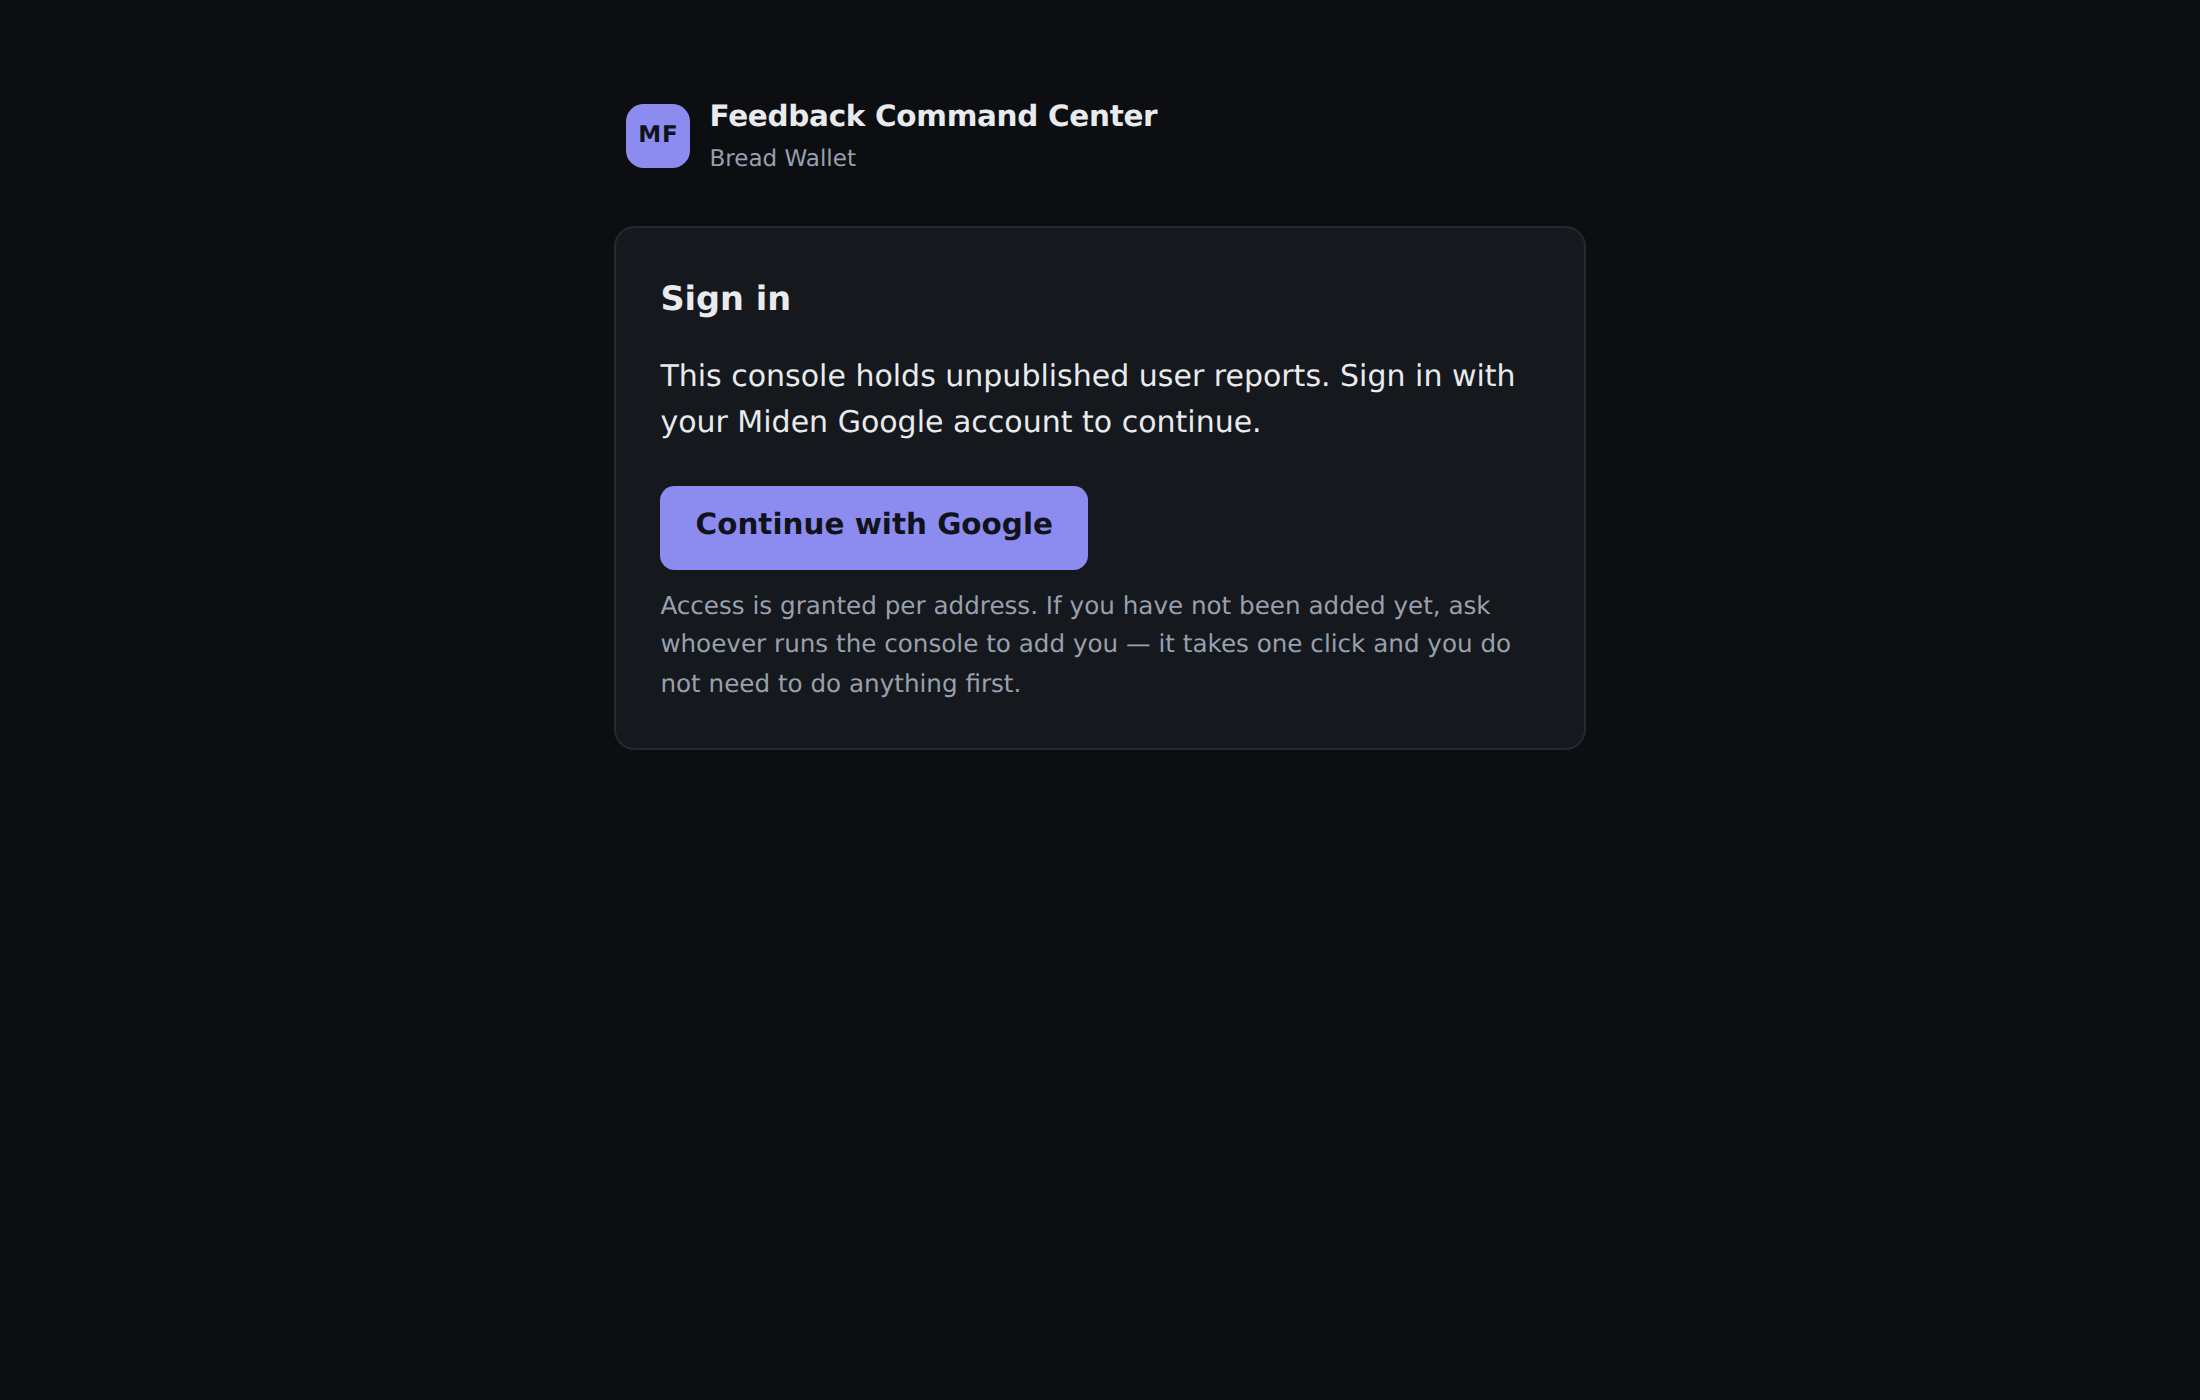
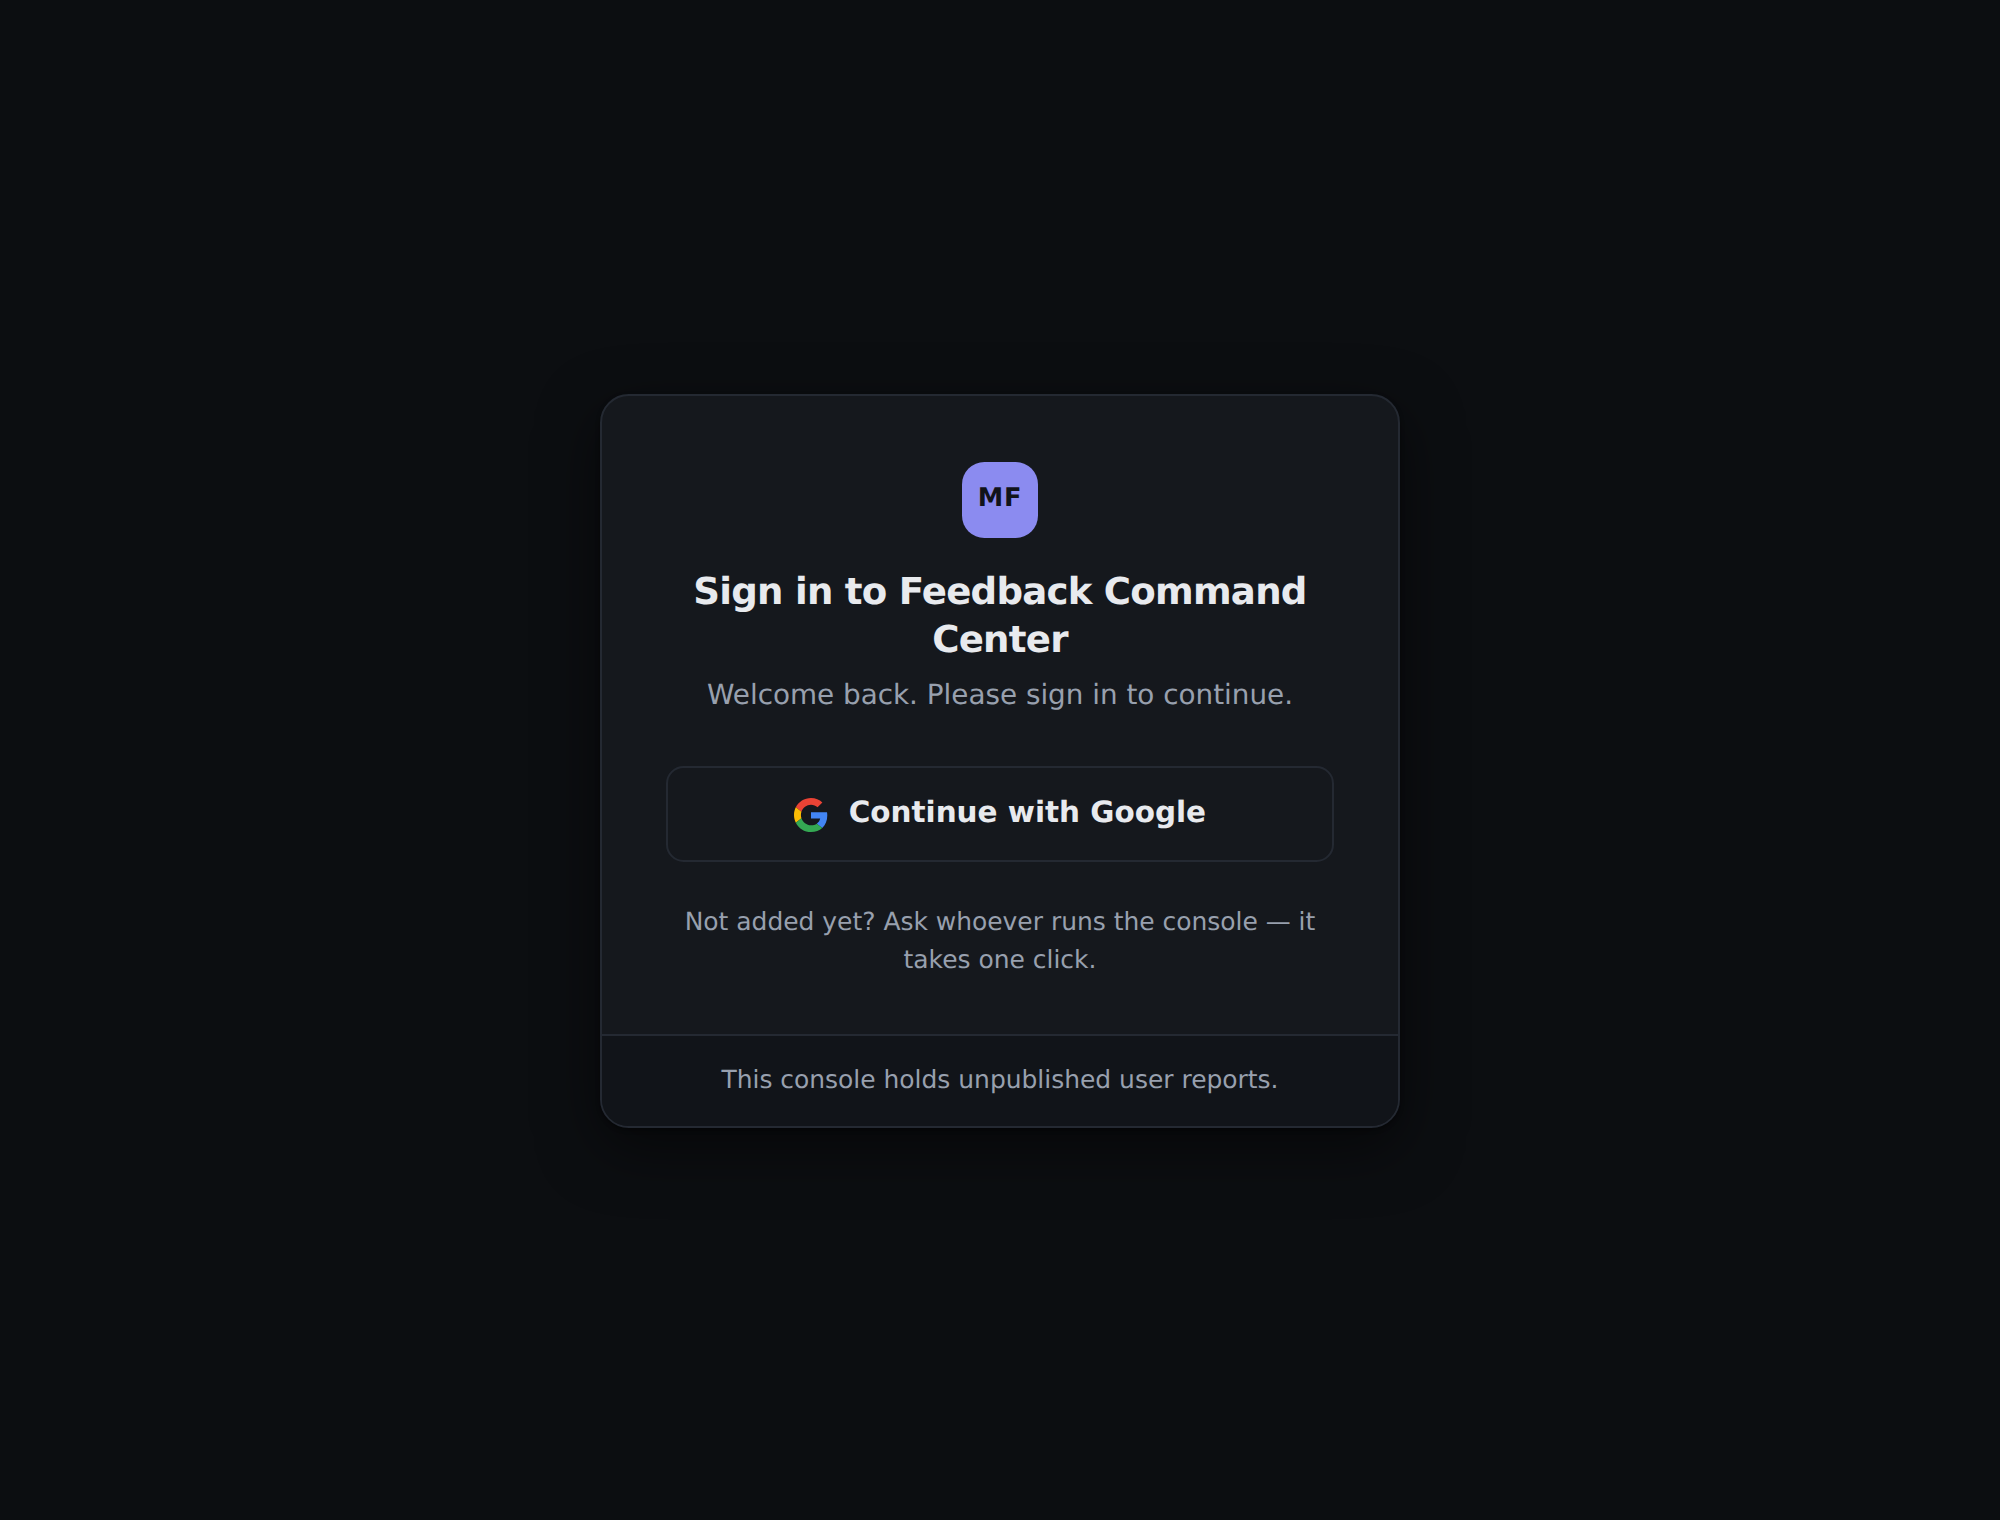
Make the sign-in page look like a sign-in page
The first version was a bespoke layout: a heading, a paragraph and a link, in
the console's own page shell. It worked and it looked like nothing anyone has
seen before, which on a login screen is a problem in itself -- a page nobody
recognises reads as untrustworthy whatever it does underneath. The familiar
shape IS part of the security story.

Rebuilt to the pattern every hosted auth screen uses: a centred card on a plain
ground, the app mark, the app name in the heading, one line of context, then a
full-width provider button carrying the REAL Google mark, a short note, and a
footer strip.

The mark is INLINE SVG, not an <img>. The CSP is `img-src 'self'`, so a logo
fetched from Google's CDN would simply not render -- and loosening the CSP to
let a picture load would be a poor trade on the one page whose job is keeping
people out. Inline markup is part of the document and needs no exception.

authPage() is separate from page() rather than a variant of it, because a
signed-out visitor must not be shown the navigation of a console they cannot
open: a rail listing queues, with counts of reports they have no access to, is
both a tease and a small leak.

Adding GitHub later is one more entry in the button list. Nothing else on the
page changes.

Claude-Session: https://claude.ai/code/session_0155C1MwMTVWLeqCxGqiyrTB

diff --git a/src/lib/admin-chrome.ts b/src/lib/admin-chrome.ts
@@ -347,6 +347,55 @@ const STYLE = `<style>
     after something goes wrong, and a hidden row cannot answer it. */
  .row-off th,.row-off td{opacity:.5}
 
+ /* ---- the sign-in card ----
+    Deliberately the shape people already know from every hosted auth screen:
+    a centred card on a plain ground, the app name in the heading, one line of
+    context, then full-width provider buttons carrying the real provider mark.
+    A login page nobody recognises reads as untrustworthy whatever it does
+    underneath, so the familiar shape IS part of the security story. */
+ .auth{min-height:100vh;display:grid;place-items:center;padding:2rem 1rem;background:var(--bg)}
+ .auth-card{
+   width:100%;max-width:25rem;background:var(--panel);
+   border:1px solid var(--line);border-radius:.9rem;overflow:hidden;
+   box-shadow:0 1px 2px rgba(0,0,0,.05),0 10px 30px rgba(0,0,0,.09);
+ }
+ @media(prefers-color-scheme:dark){
+   .auth-card{box-shadow:0 1px 2px rgba(0,0,0,.4),0 10px 30px rgba(0,0,0,.5)}
+ }
+ .auth-body{padding:2.1rem 2rem 1.7rem}
+ .auth-mark{
+   width:2.4rem;height:2.4rem;border-radius:.7rem;margin:0 auto .95rem;
+   background:var(--accent);color:var(--accent-ink);
+   display:flex;align-items:center;justify-content:center;
+   font-size:.8rem;font-weight:700;letter-spacing:.03em;
+ }
+ .auth-title{
+   margin:0 0 .3rem;text-align:center;font-size:1.16rem;font-weight:700;
+   letter-spacing:-.02em;line-height:1.3;
+ }
+ .auth-sub{margin:0 0 1.5rem;text-align:center;font-size:.87rem;color:var(--muted)}
+ .auth-btn{
+   display:flex;align-items:center;justify-content:center;gap:.65rem;
+   width:100%;padding:.72rem 1rem;margin:0 0 .6rem;
+   border:1px solid var(--line);border-radius:.55rem;
+   background:var(--panel);color:var(--ink);text-decoration:none;
+   font-size:.92rem;font-weight:550;
+ }
+ .auth-btn:hover{background:var(--sunk);border-color:var(--muted)}
+ .auth-btn:focus-visible{outline:2px solid var(--accent);outline-offset:2px}
+ .auth-btn svg{flex:none}
+ .auth-note{
+   margin:1.3rem 0 0;text-align:center;font-size:.78rem;color:var(--muted);line-height:1.5;
+ }
+ .auth-err{
+   margin:0 0 1.1rem;padding:.6rem .75rem;border-radius:.5rem;font-size:.84rem;
+   background:var(--spam-bg);color:var(--spam-ink);border:1px solid var(--spam-line);
+ }
+ .auth-foot{
+   border-top:1px solid var(--line);background:var(--sunk);
+   padding:.8rem 2rem;text-align:center;font-size:.78rem;color:var(--muted);
+ }
+
  @media(max-width:52rem){
    .app{grid-template-columns:minmax(0,1fr)}
    .side{
@@ -397,6 +446,50 @@ export function page(
     `<meta name="viewport" content="width=device-width,initial-scale=1">` +
     `<meta name="robots" content="noindex,nofollow">` +
     `<title>${esc(title)}</title>${STYLE}</head><body>${shell}</body></html>`,
+    { status, headers: secureHeaders(extra) }
+  );
+}
+
+/**
+ * The Google mark, inline.
+ *
+ * INLINE SVG, not an <img>. The CSP is `img-src 'self'`, so a logo fetched
+ * from Google's CDN would simply not render — and loosening the CSP to let a
+ * picture load would be a poor trade on the one page that exists to keep
+ * people out. Inline markup is part of the document and needs no exception.
+ */
+const GOOGLE_MARK =
+  '<svg viewBox="0 0 48 48" width="17" height="17" aria-hidden="true" focusable="false">'
+  + '<path fill="#EA4335" d="M24 9.5c3.54 0 6.71 1.22 9.21 3.6l6.85-6.85C35.9 2.38 30.47 0 24 0'
+  + ' 14.62 0 6.51 5.38 2.56 13.22l7.98 6.19C12.43 13.72 17.74 9.5 24 9.5z"/>'
+  + '<path fill="#4285F4" d="M46.98 24.55c0-1.57-.15-3.09-.38-4.55H24v9.02h12.94c-.58 2.96-2.26'
+  + ' 5.48-4.78 7.18l7.73 6c4.51-4.18 7.09-10.36 7.09-17.65z"/>'
+  + '<path fill="#FBBC05" d="M10.53 28.59c-.48-1.45-.76-2.99-.76-4.59s.27-3.14.76-4.59l-7.98-6.19'
+  + 'C.92 16.46 0 20.12 0 24s.92 7.54 2.56 10.78l7.97-6.19z"/>'
+  + '<path fill="#34A853" d="M24 48c6.48 0 11.93-2.13 15.89-5.81l-7.73-6c-2.15 1.45-4.92 2.3-8.16'
+  + ' 2.3-6.26 0-11.57-4.22-13.47-9.91l-7.98 6.19C6.51 42.62 14.62 48 24 48z"/></svg>';
+
+export const PROVIDER_MARKS = { google: GOOGLE_MARK } as const;
+
+/**
+ * A centred sign-in card, with no rail and no queue chrome around it.
+ *
+ * Separate from `page()` because a signed-out visitor must not be shown the
+ * navigation of a console they cannot open — a rail listing queues, with counts
+ * of reports they have no access to, is both a tease and a small leak.
+ */
+export function authPage(
+  title: string, inner: string, footer = '', status = 200,
+  extra: Record<string, string> = {}
+): Response {
+  return new Response(
+    `<!doctype html><html lang="en"><head><meta charset="utf-8">` +
+    `<meta name="viewport" content="width=device-width,initial-scale=1">` +
+    `<meta name="robots" content="noindex,nofollow">` +
+    `<title>${esc(title)}</title>${STYLE}</head><body>` +
+    `<div class="auth"><div class="auth-card"><div class="auth-body">${inner}</div>` +
+    (footer ? `<div class="auth-foot">${footer}</div>` : '') +
+    `</div></div></body></html>`,
     { status, headers: secureHeaders(extra) }
   );
 }

diff --git a/src/lib/admin-routes.ts b/src/lib/admin-routes.ts
@@ -13,7 +13,7 @@
  * Same rules as every other page here: zero JavaScript, everything escaped,
  * CSP `default-src 'none'`.
  */
-import { esc, page, secureHeaders } from './admin-chrome';
+import { esc, page, secureHeaders, authPage, PROVIDER_MARKS } from './admin-chrome';
 import {
   startSignIn, handleCallback, currentUser, isConfigured, normalizeEmail,
   csrfToken, csrfOk, signOutCookies, clearStateCookie, type AuthEnv, type AdminUser,
@@ -24,34 +24,37 @@ export const PUBLIC_ADMIN_PATHS = new Set([
   '/admin/login', '/admin/auth/start', '/admin/auth/callback', '/admin/logout',
 ]);
 
-function shell(title: string, inner: string, status = 200, extra: Record<string, string> = {}): Response {
-  return page(title, `<div class="refused">${inner}</div>`, status, extra);
-}
-
-/** The sign-in page. One button. */
+/**
+ * The sign-in page.
+ *
+ * Built to the shape people already know from every hosted auth screen, because
+ * a login page nobody recognises reads as untrustworthy whatever it does
+ * underneath. Provider buttons carry the real provider mark; adding GitHub
+ * later is one more entry in the list below and nothing else on this page
+ * changes.
+ */
 function loginPage(message: string | null, status = 200, extra: Record<string, string> = {}): Response {
-  // The brand block above the card already says Feedback Command Center;
-  // repeating it as the heading just made the page say its own name twice.
-  return shell('Sign in', `
-    <h1>Sign in</h1>
-    <p>This console holds unpublished user reports. Sign in with your Miden
-       Google account to continue.</p>
-    ${message ? `<p class="signin-error">${esc(message)}</p>` : ''}
-    <p class="signin-actions"><a class="signin-btn" href="/admin/auth/start">Continue with Google</a></p>
-    <p class="note">Access is granted per address. If you have not been added yet,
-       ask whoever runs the console to add you — it takes one click and you do not
-       need to do anything first.</p>`, status, extra);
+  return authPage('Sign in', `
+    <div class="auth-mark" aria-hidden="true">MF</div>
+    <h1 class="auth-title">Sign in to Feedback Command Center</h1>
+    <p class="auth-sub">Welcome back. Please sign in to continue.</p>
+    ${message ? `<p class="auth-err">${esc(message)}</p>` : ''}
+    <a class="auth-btn" href="/admin/auth/start">${PROVIDER_MARKS.google}Continue with Google</a>
+    <p class="auth-note">Not added yet? Ask whoever runs the console &mdash; it takes one click.</p>`,
+    'This console holds unpublished user reports.', status, extra);
 }
 
 /** Shown when the secrets are missing, so the failure names itself. */
 function notConfigured(): Response {
-  return shell('Sign in unavailable', `
-    <h1>Sign-in is not configured</h1>
-    <p>This deployment has no Google credentials, so nobody can sign in.
-       Set <code>ADMIN_SESSION_SECRET</code>, <code>GOOGLE_OAUTH_CLIENT_ID</code>
-       and <code>GOOGLE_OAUTH_CLIENT_SECRET</code>, then redeploy.</p>
-    <p class="note">The console fails closed on purpose: with no credentials it
-       admits nobody, rather than admitting everybody.</p>`, 503);
+  return authPage('Sign in unavailable', `
+    <div class="auth-mark" aria-hidden="true">MF</div>
+    <h1 class="auth-title">Sign-in is not configured</h1>
+    <p class="auth-sub">This deployment has no Google credentials, so nobody can sign in.</p>
+    <p class="auth-note">Set <code>ADMIN_SESSION_SECRET</code>,
+       <code>GOOGLE_OAUTH_CLIENT_ID</code> and <code>GOOGLE_OAUTH_CLIENT_SECRET</code>,
+       then redeploy.</p>`,
+    'The console fails closed: with no credentials it admits nobody, rather than everybody.',
+    503);
 }
 
 /**
@@ -73,10 +76,12 @@ export async function requireAdmin(
   // Bouncing a POST to a login page would lose whatever it was submitting and
   // look, to the person, like the button silently did nothing.
   if (req.method !== 'GET') {
-    return { response: shell('Signed out', `
-      <h1>Signed out</h1>
-      <p>Your session ended before that action was submitted. Sign in again and retry.</p>
-      <p><a href="/admin/login">Sign in</a></p>`, 403) };
+    return { response: authPage('Signed out', `
+      <div class="auth-mark" aria-hidden="true">MF</div>
+      <h1 class="auth-title">Your session ended</h1>
+      <p class="auth-sub">That action was not submitted. Sign in again and retry it.</p>
+      <a class="auth-btn" href="/admin/auth/start">${PROVIDER_MARKS.google}Continue with Google</a>`,
+      '', 403) };
   }
   return { response: loginPage(null) };
 }
